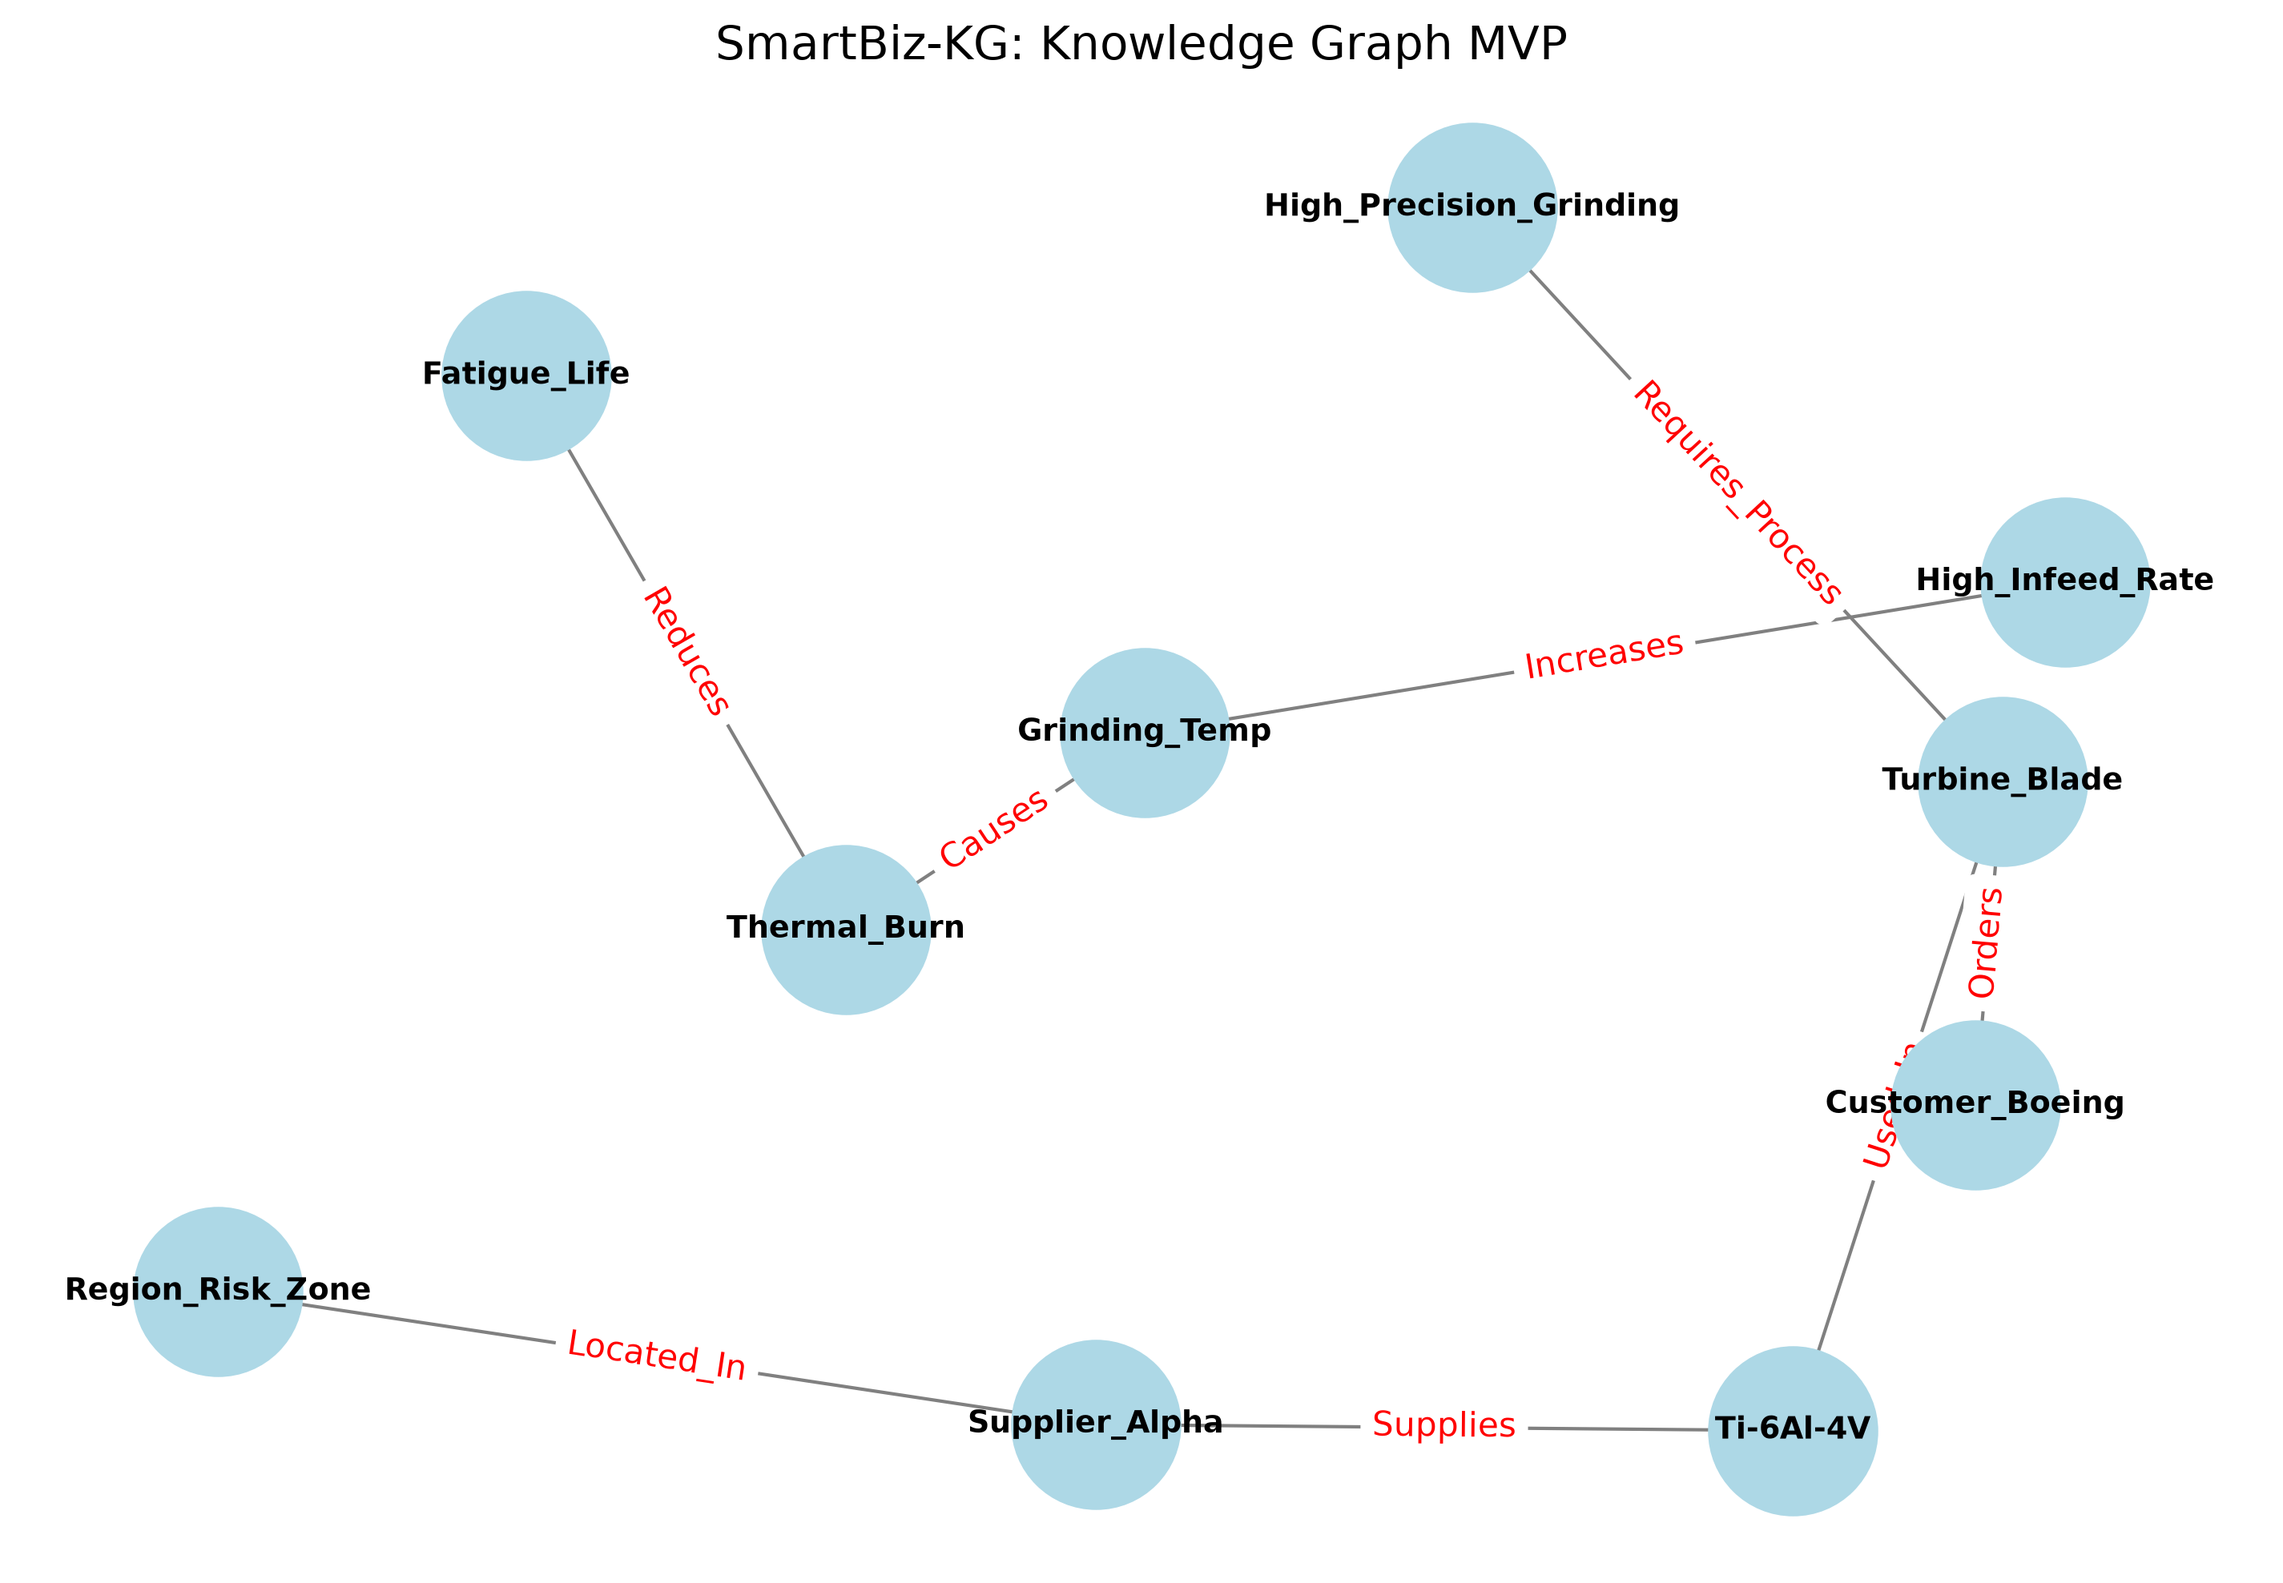
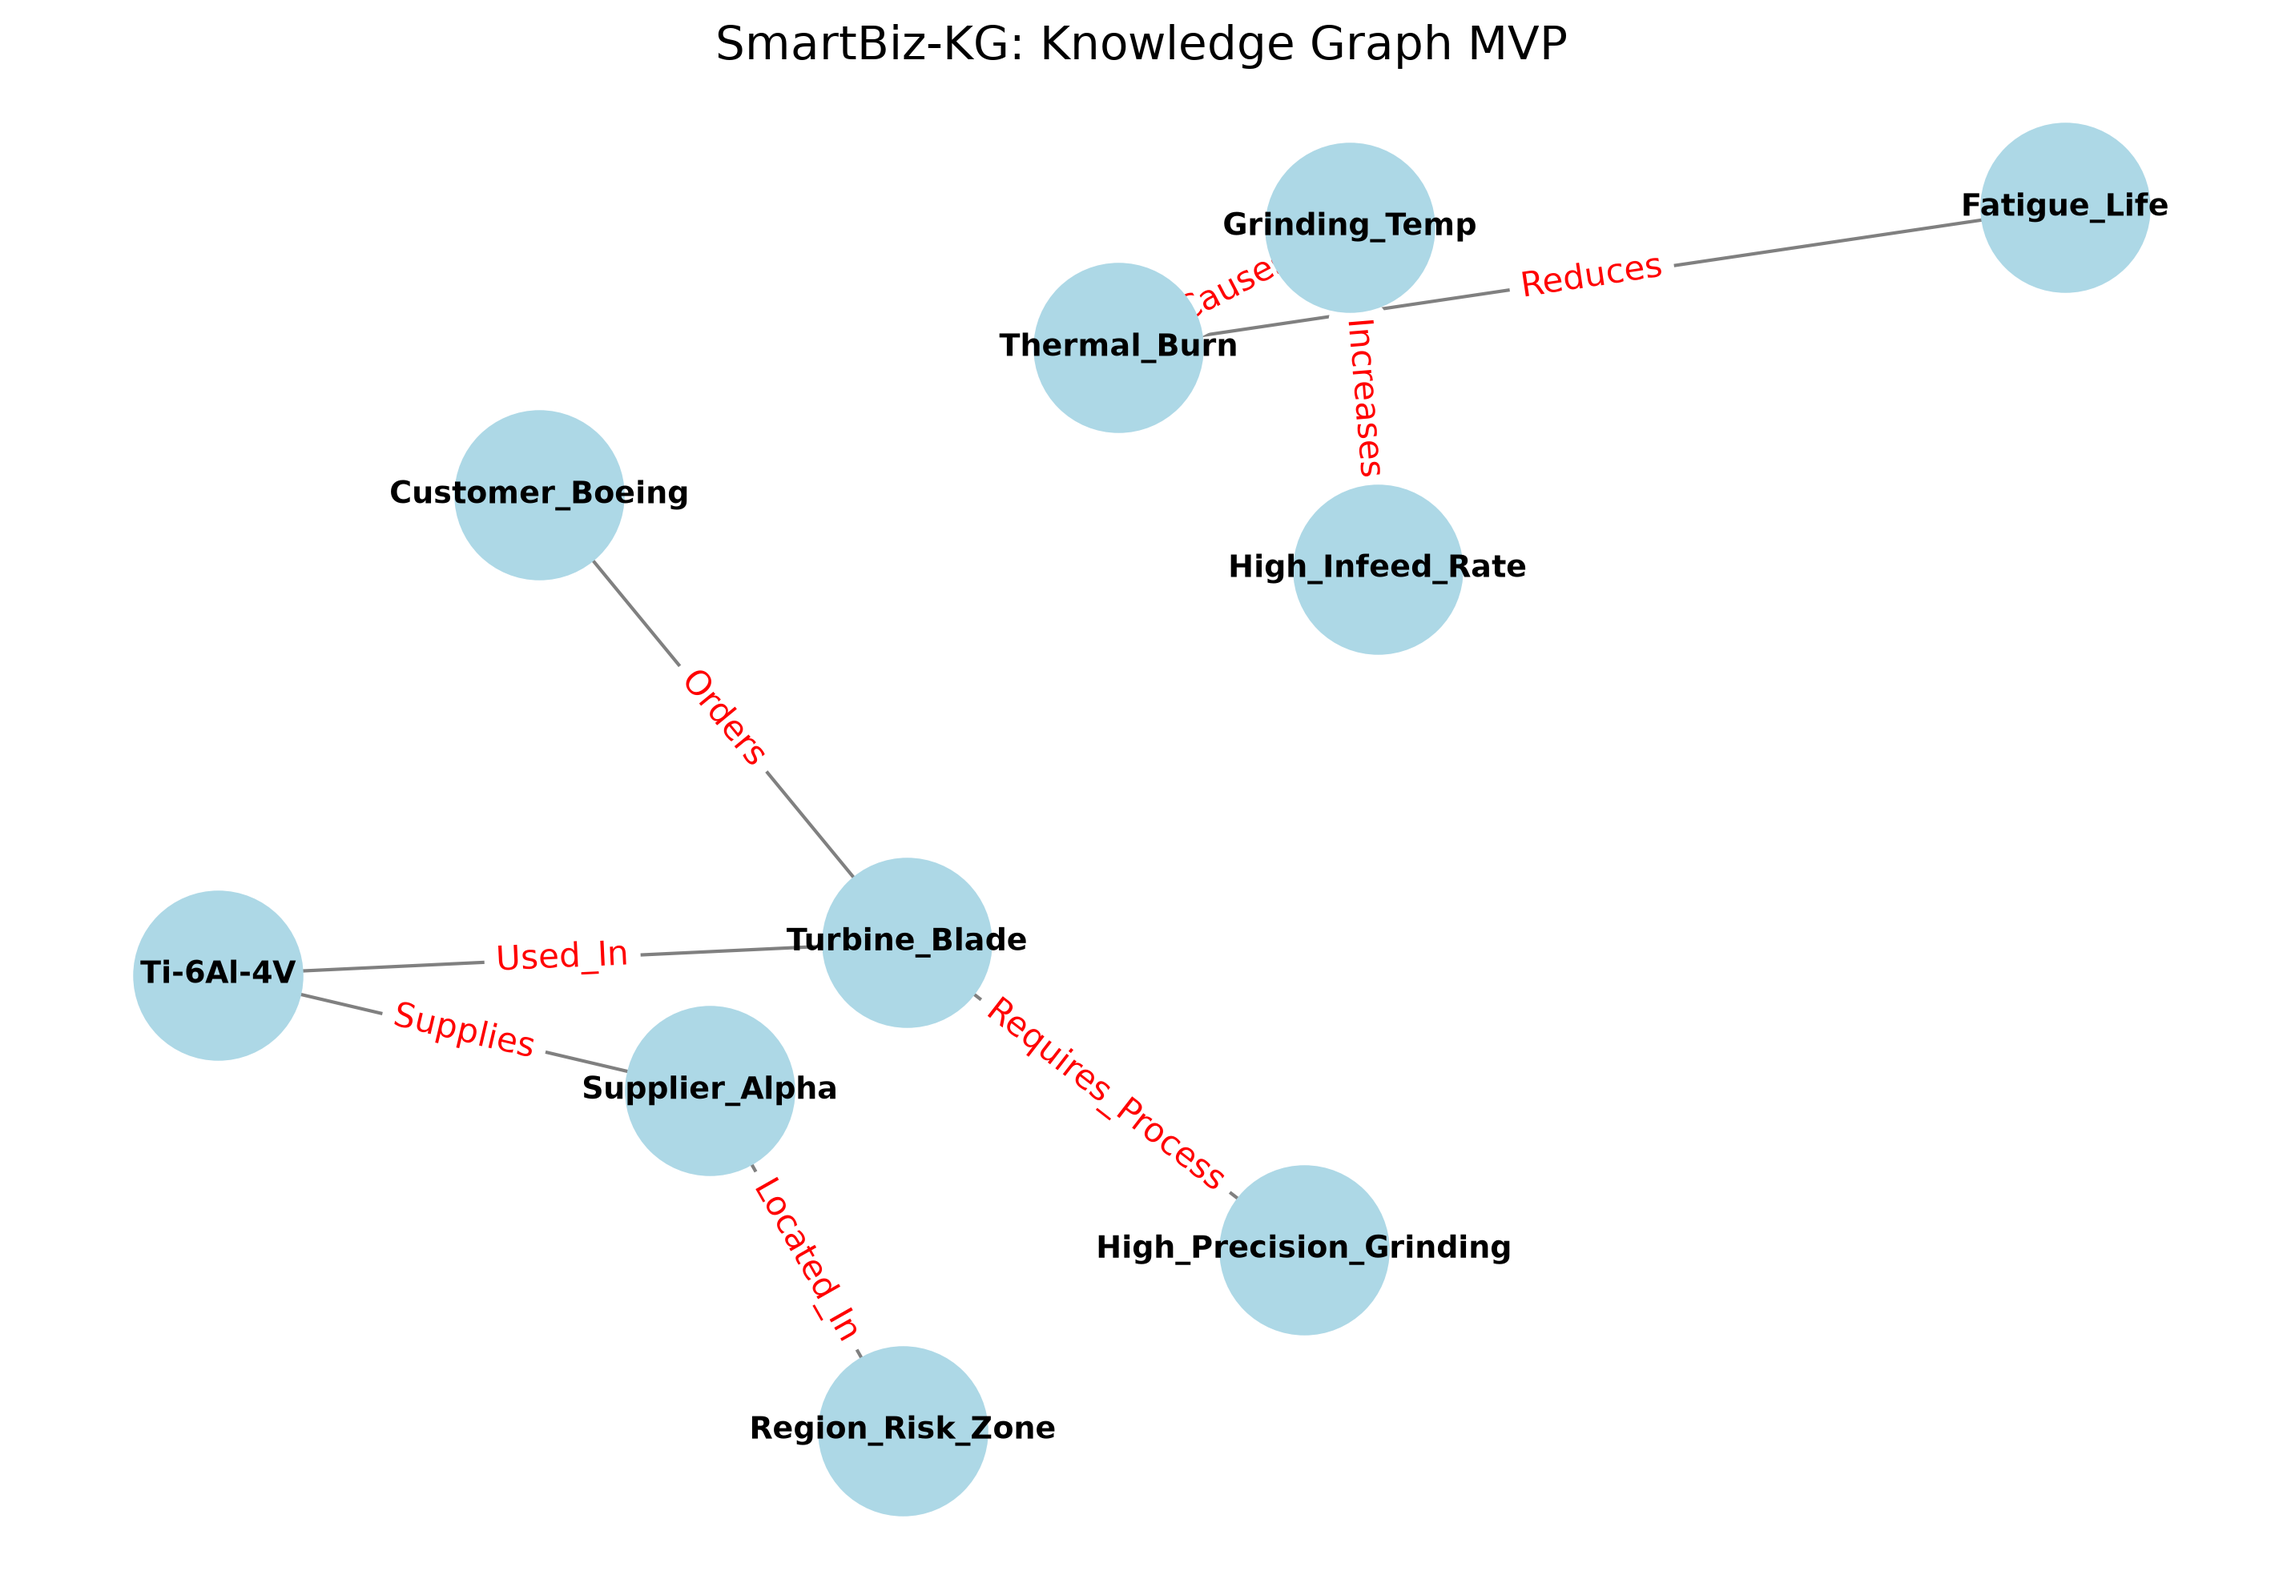
04.03 added GraphRAGAgent for contextual risk reporting

diff --git a/knowledge_graph/networkx_triplets.py b/knowledge_graph/networkx_triplets.py
@@ -51,24 +51,30 @@ class KnowledgeGraph:
         return neighbors
 
     # ==========================================
-    # اضافه شدن فیچر جدید: موتور استنتاج و مسیریابی
+    # موتور استنتاج و مسیریابی
     # ==========================================
     def find_paths(self, source: str, target: str) -> List[List[str]]:
         """یافتن تمام مسیرهای ساده ممکن بین دو موجودیت"""
         if source not in self.entities or target not in self.entities:
             return []
-        # استفاده از الگوریتم NetworkX برای یافتن تمام مسیرها
         return list(nx.all_simple_paths(self.graph, source=source, target=target))
 
     def analyze_impact(self, source_entity: str) -> Set[str]:
         """تحلیل اثرپذیری: چه موجودیتهایی تحت تاثیر این گره قرار دارند؟"""
         if source_entity not in self.entities:
             return set()
-        # استفاده از پیمایش گراف (Descendants) برای یافتن تمام گرههای پاییندست
         return nx.descendants(self.graph, source_entity)
 
+    def get_subgraph_triplets(self, entities_subset: Set[str]) -> List[Triplet]:
+        """استخراج سهتاییهای مربوط به یک زیرگراف خاص (برای استفاده در Graph-RAG)"""
+        sub_triplets = []
+        for t in self.triplets:
+            if t.head in entities_subset or t.tail in entities_subset:
+                sub_triplets.append(t)
+        return sub_triplets
+
     # ==========================================
-    # اضافه شده در گام ۳: رسم تعاملی و داشبورد HTML
+    # رسم تعاملی و داشبورد HTML
     # ==========================================
     def visualize_interactive(self, filename: str = "smartbiz_kg_interactive.html", highlight_risk_from: Optional[str] = None):
         """رسم تعاملی گراف در قالب فایل وب HTML با قابلیت کشیدن، زوم و هایلایت بحران"""
@@ -107,27 +113,63 @@ class KnowledgeGraph:
         plt.figure(figsize=(12, 8))
         pos = nx.spring_layout(self.graph, k=0.8)
         
-        # رسم گرهها و یالها
         nx.draw_networkx_nodes(self.graph, pos, node_size=2500, node_color='lightblue')
         nx.draw_networkx_labels(self.graph, pos, font_size=9, font_weight='bold')
         nx.draw_networkx_edges(self.graph, pos, arrowstyle='->', arrowsize=20, edge_color='gray')
         
-        # برچسب روی یالها (روابط)
         edge_labels = nx.get_edge_attributes(self.graph, 'relation')
         nx.draw_networkx_edge_labels(self.graph, pos, edge_labels=edge_labels, font_color='red')
         
         plt.title("SmartBiz-KG: Knowledge Graph MVP", fontsize=14)
         plt.axis('off')
         
-        # ۱. ذخیره فایل تصویر با کیفیت بالا (DPI 300) قبل از نمایش
         plt.savefig(filename, dpi=300, bbox_inches='tight')
         print(f"\n[+] تصویر گراف با موفقیت در فایل '{filename}' ذخیره شد.")
-        
-        # ۲. نمایش پنجره
         plt.show()
-    
+
 # ==========================================
-# ۳. بارگذاری دادههای اولیه پروژه (تولید + کسبوکار)
+# ۳. عامل Graph-RAG برای تولید گزارش متنی
+# ==========================================
+class GraphRAGAgent:
+    def __init__(self, kg: KnowledgeGraph):
+        self.kg = kg
+
+    def query_impact_report(self, risk_entity: str) -> str:
+        """تولید گزارش تحلیلی اثرات بحران بر اساس بازیابی گراف دانش (Graph-RAG)"""
+        if risk_entity not in self.kg.entities:
+            return f"خطا: موجودیت '{risk_entity}' در گراف دانش یافت نشد."
+
+        affected_nodes = self.kg.analyze_impact(risk_entity)
+        related_entities = affected_nodes.union({risk_entity})
+        sub_triplets = self.kg.get_subgraph_triplets(related_entities)
+
+        # ساخت کانتکست ساختاریافته (Graph Context Retrieval)
+        context_str = "\n".join([f"- {t.head} -> [{t.relation}] -> {t.tail}" for t in sub_triplets])
+
+        # قالببندی گزارش نهایی
+        report = f"""
+==================================================
+📊 گزارش هوشمند Graph-RAG: تحلیل ریسک و اثرات بحران
+==================================================
+🎯 منبع ریسک بررسیشده: {risk_entity}
+📉 تعداد موجودیتهای متأثر مستقیم/غیرمستقیم: {len(affected_nodes)}
+
+🔍 حقایق استخراجشده از گراف (Knowledge Graph Context):
+{context_str}
+
+💡 تحلیل مدیریتی و زنجیره اثرات:
+بر اساس گراف دانش، هرگونه بروز ریسک یا اختلال در '{risk_entity}' بهصورت زنجیرهای موارد زیر را تحت تاثیر قرار میدهد:
+"""
+        for node in affected_nodes:
+            paths = self.kg.find_paths(risk_entity, node)
+            if paths:
+                path_str = " -> ".join(paths[0])
+                report += f"  • آسیب به [{node}] از طریق مسیر: ({path_str})\n"
+
+        return report
+
+# ==========================================
+# ۴. بارگذاری دادههای اولیه پروژه (تولید + کسبوکار)
 # ==========================================
 kg = KnowledgeGraph()
 
@@ -157,6 +199,11 @@ risk_node = "Supplier_Alpha"
 print(f"\n--- تست استنتاج ۲: تحلیل اثر بحران در '{risk_node}' ---")
 affected_entities = kg.analyze_impact(risk_node)
 print(f"موجودیتهایی که تحت تأثیر بحران این گره قرار میگیرند: {affected_entities}")
+
+# --- تست ۳: فراخوانی Graph-RAG Agent و چاپ گزارش متنی ---
+rag_agent = GraphRAGAgent(kg)
+report_output = rag_agent.query_impact_report(risk_node)
+print(report_output)
 
 # رسم گراف نهایی
 kg.visualize()
